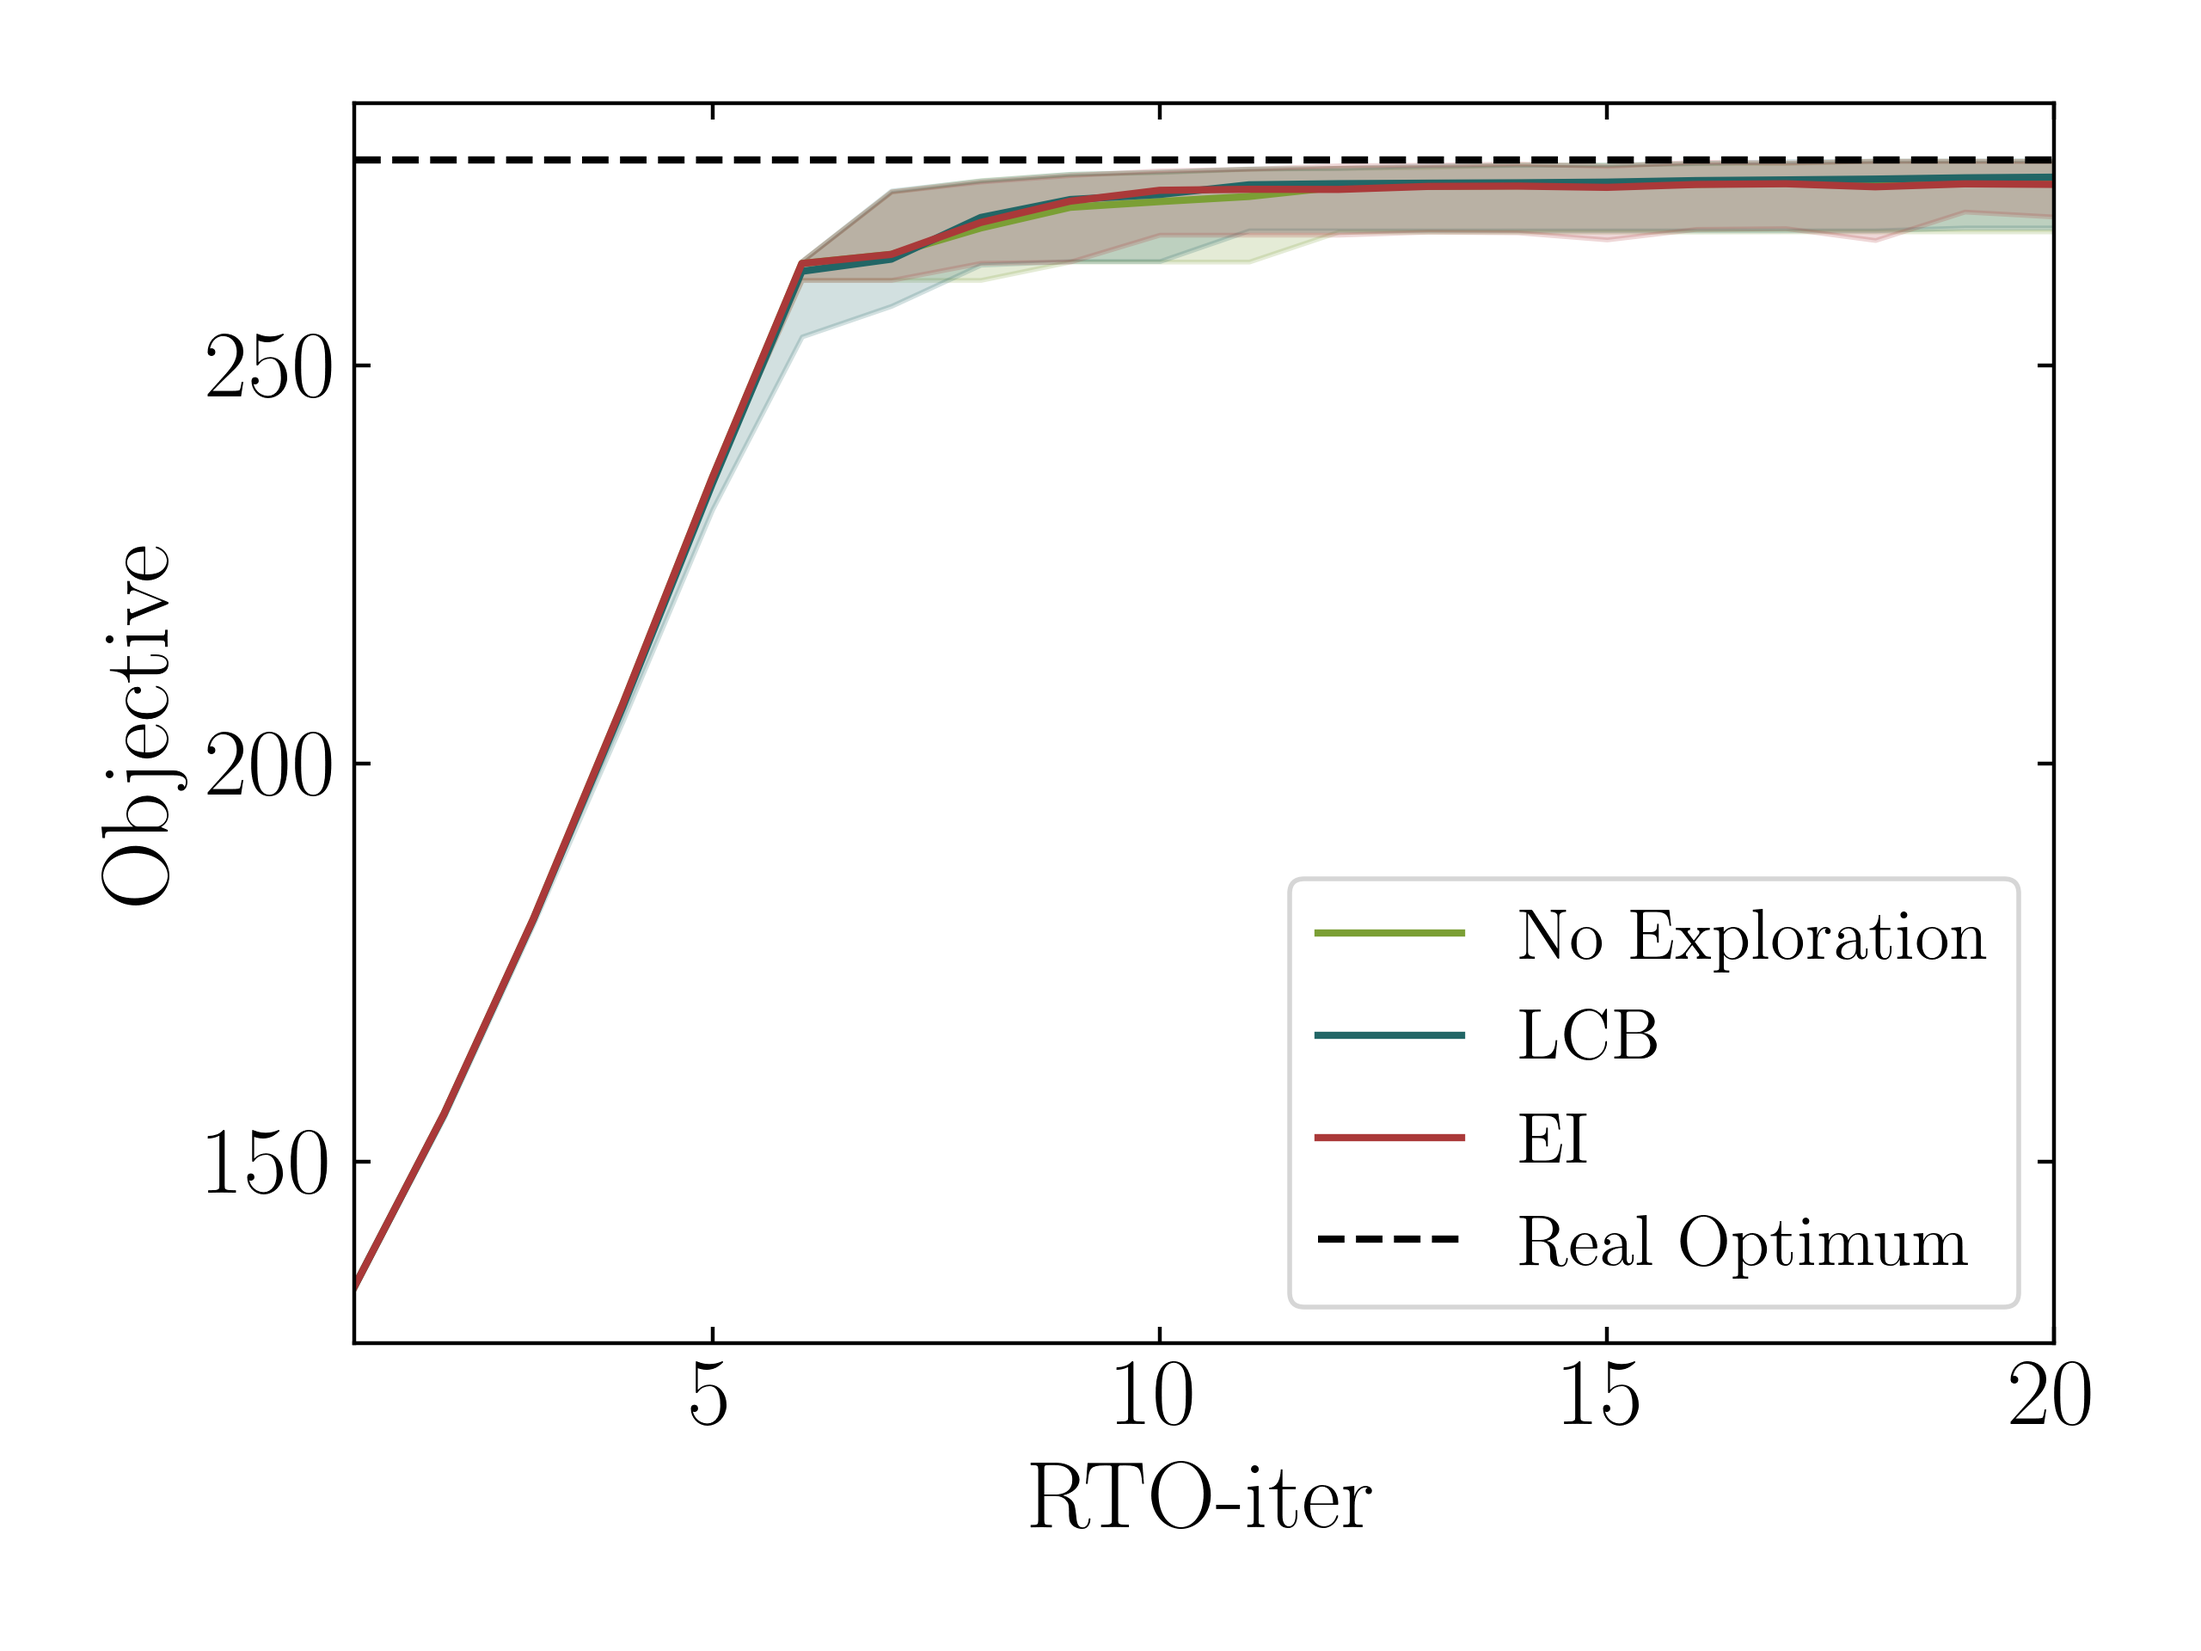
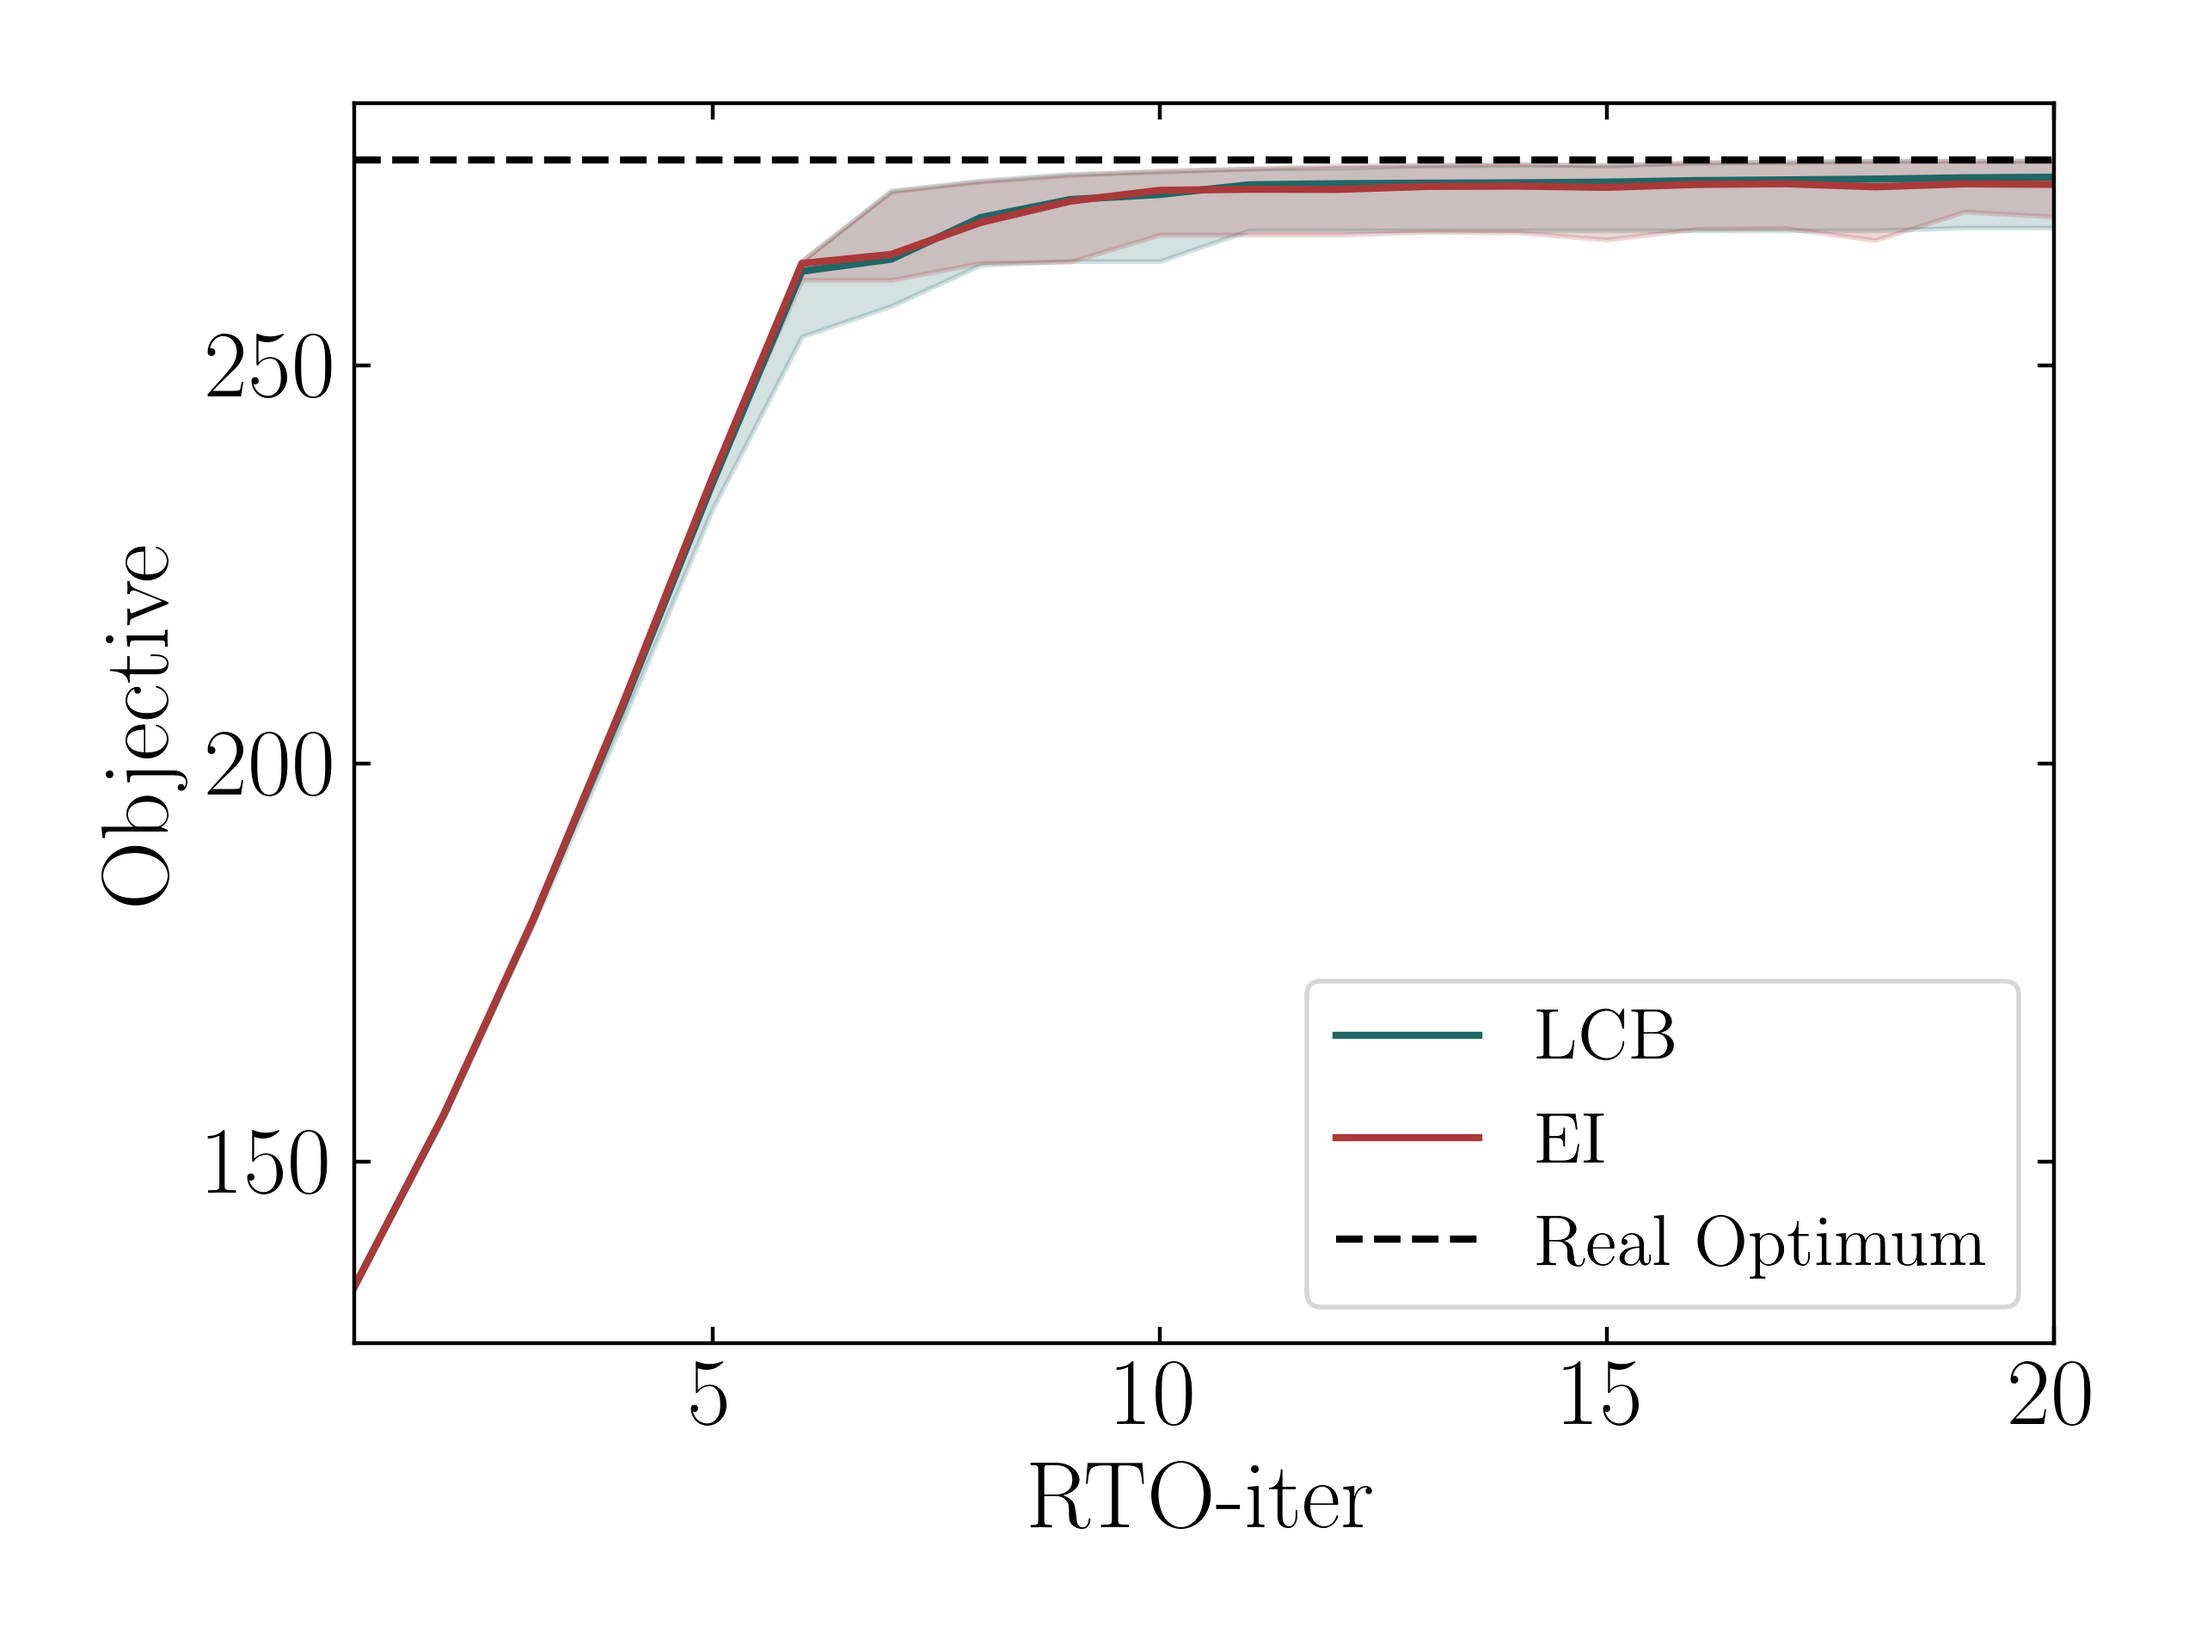
update_input

Changed region(s): [[0.375, 0.0938, 0.9375, 0.1875], [0.6875, 0.5312, 0.9062, 0.7812], [0.5625, 0.5625, 0.6562, 0.7812]]

diff --git a/plots_RTO.py b/plots_RTO.py
@@ -429,11 +429,11 @@ def plot_obj(obj):
     plt.rcParams.update(params)
 
     obj_no_prior_with_exploration_ei = obj('no_prior_with_exploration_ei')
-    obj_with_prior_with_exploration_ei = obj('with_prior_with_exploration_ei_new2_new2')#'with_prior_with_exploration_ei')
+    obj_with_prior_with_exploration_ei = obj('with_prior_with_exploration_ei_new2')#'with_prior_with_exploration_ei')
     # obj_with_prior_with_exploration_ei_noise  = obj('with_prior_with_exploration_ei_noise')
     # obj_no_prior_with_exploration_ei_noise    = obj('no_prior_with_exploration_ei_noise')
     obj_no_prior_with_exploration_ucb = obj('no_prior_with_exploration_ucb')
-    obj_with_prior_with_exploration_ucb = obj('with_prior_with_exploration_ucb')
+    obj_with_prior_with_exploration_ucb = obj('with_prior_with_exploration_ucb_new2')
     # obj_with_prior_with_exploration_ucb_noise = obj('with_prior_with_exploration_ucb_noise')
     # obj_no_prior_with_exploration_ucb_noise   = obj('no_prior_with_exploration_ucb_noise')
     # obj_no_prior_no_exploration = obj('no_prior_no_exploration')
@@ -444,12 +444,12 @@ def plot_obj(obj):
     data = [  # obj_no_prior_with_exploration_ei[-1],
         obj_with_prior_with_exploration_ei[-1],
         # obj_no_prior_with_exploration_ucb[-1],
-        obj_with_prior_with_exploration_ucb[-1],
+        obj_with_prior_with_exploration_ucb[-1]]#,
         # obj_no_prior_no_exploration[-1]]
-        obj_with_prior_no_exploration[-1]]
+        #obj_with_prior_no_exploration[-1]]
     ni = 20
-    color = ['AA3939', '226666', '7B9F35']
-    label = ['EI', 'LCB', 'No Exploration']
+    color = ['AA3939', '226666']#, '7B9F35']
+    label = ['EI', 'LCB']#, 'No Exploration']
     for i, obj_ in reversed(list((enumerate(data)))):
         obj_mean = obj_.mean(axis=0)
         obj_max = obj_.max(axis=0)

diff --git a/run_WO/main_WO_prior_EI.py b/run_WO/main_WO_prior_EI.py
@@ -89,7 +89,7 @@ if not(os.path.exists('figs_noise_WO')):
 # Plot('with_prior_no_exploration')
 # Plot('with_prior_no_exploration_noise')
 # Plot('no_prior_no_exploration_noise')
-# plot_obj(compute_obj)
+plot_obj(compute_obj)
 # plot_obj_noise(compute_obj)
 
 #-----------------------------------------------------------------------#
